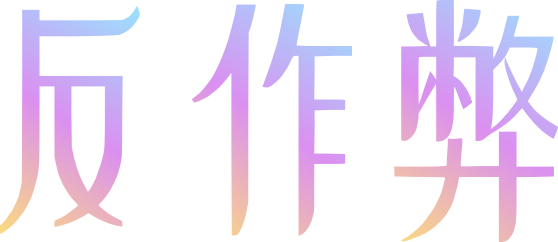
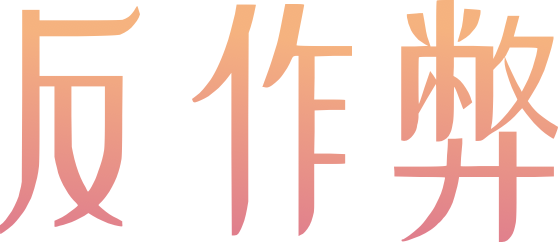
feat: init

Changed region(s): [[0.7007, 0.0, 1.0, 1.0], [0.0, 0.0289, 0.2742, 0.9545], [0.3351, 0.0, 0.6398, 0.9835]]

diff --git a/src/components/Layout/Nav.tsx b/src/components/Layout/Nav.tsx
@@ -9,7 +9,7 @@ import { cn } from "@/utils";
 const ConnectUs = () => {
   return (
     <div className="absolute left-0 hidden group-hover:block">
-      <div className="h-4"></div>
+      <div className="h-3"></div>
       <div className="w-[20.5rem] h-[20.5rem] bg-white rounded-[0.625rem] flex flex-col space-y-[0.75rem] items-center">
         <h2 className="text-black text-lg leading-6 mt-[1.4375rem]">微信扫一扫</h2>
         <div className="w-[15.4375rem] h-[15.4375rem] border border-dashed border-black/40">
@@ -42,17 +42,17 @@ const Nav = () => {
   ];
 
   return (
-    <div className="fixed z-[2] top-0 min-w-[67.5rem] w-screen h-[3.5625rem] backdrop-blur pl-[18.54%] flex items-center justify-start">
-      <Link href='/' className=" w-[7.375rem] h-[2.875rem]">
-        <Image src={Logo} alt="" className="block w-full h-full" />
+    <div className="fixed z-[2] top-0 min-w-[67.5rem] w-screen h-[3.5625rem] bg-white/80 backdrop-blur pl-[18.54%] flex items-center justify-start">
+      <Link href='/' className=" w-[11rem]">
+        <Image src={Logo} alt="" className="block w-full" />
       </Link>
-      <ul className="flex justify-start space-x-[2.9375rem] ml-[4.3125rem] items-center *:*:text-sm *:*:text-white *:*:leading-5 *:*:relative *:*:after:content-[''] *:*:after:absolute *:*:after:-bottom-5 *:*:after:left-0 *:*:after:right-0 *:*:after:h-1 *:*:after:bg-[#7A53DA] *:*:after:opacity-0 *:*:after:transition-opacity">
+      <ul className="flex justify-start space-x-[2.9375rem] ml-[4.3125rem] items-center *:*:text-sm *:*:text-[#221F1F] *:*:leading-5 *:*:relative *:*:after:content-[''] *:*:after:absolute *:*:after:-bottom-5 *:*:after:left-0 *:*:after:right-0 *:*:after:h-1 *:*:after:bg-[#E64921] *:*:after:opacity-0 *:*:after:transition-all">
         {routerList.map(_ => (
           <li key={_.name} className={cn({
-            '*:after:opacity-100': pathname === _.href
+            '*:after:opacity-100 *:text-[#E64921]': pathname === _.href
           })}>
             {
-              _.href ? <Link href={_.href} className="hover:after:opacity-100 duration-500">{_.name}</Link> : <div className="cursor-pointer group">{_.name}<ConnectUs /></div>
+              _.href ? <Link href={_.href} className="hover:after:opacity-100 hover:text-[#E64921] duration-500">{_.name}</Link> : <div className="cursor-pointer group hover:text-[#E64921]">{_.name}<ConnectUs /></div>
             }
           </li>
         ))}

diff --git a/src/app/page.tsx b/src/app/page.tsx
@@ -3,12 +3,14 @@ const Home = () => {
     <div
       style={{ backgroundSize: "100% 100%" }}
       className="pt-[3.5625rem] bg-no-repeat bg-[url('/assets/aboutUsBg.png')] flex-1 relative">
-      <div className="absolute left-0 bottom-0 bg-[#7A53DA] opacity-70 w-[48.95%] rounded-tr-[12.25rem] px-[4.6875rem] pb-[0.875rem] pt-[1.8125rem]">
-        <h1 className="text-white w-fit mb-[2.25rem] font-semibold text-xl leading-7 relative after:absolute after:content-[''] after:h-1 after:left-0 after:right-0 after:-bottom-4 after:bg-white">关于我们</h1>
+      <div className="absolute left-0 bottom-0 bg-about-us-tip w-[48.95%] rounded-tr-[12.25rem] px-[4.6875rem] pb-[0.875rem] pt-[1.8125rem]">
+        <h1 className="text-white w-fit mb-[2.25rem] font-semibold text-xl leading-7 relative after:absolute after:content-[''] after:h-1 after:left-0 after:right-0 after:-bottom-4 after:bg-white">
+          关于我们
+        </h1>
         <ul className="flex flex-col space-y-8 mb-8 *:*:text-lg *:*:leading-[1.5625rem] *:*:text-white">
           <li>
             <p>
-              北京林开志奇广告有限公司成立于2020年，是一家链接媒体和广告主的全域营销技术服务商，在程序化投放、媒体代理、媒体商业化等业务领域深耕。
+              北京笑然广告有限公司成立于2020年，是一家链接媒体和广告主的全域营销技术服务商，在程序化投放、媒体代理、媒体商业化等业务领域深耕。
             </p>
           </li>
           <li>

diff --git a/src/app/media/Situation.tsx b/src/app/media/Situation.tsx
@@ -32,11 +32,11 @@ const Situation = () => {
   ];
 
   return (
-    <div className="h-[50vw] w-full bg-[#B5AAD5]">
+    <div className="h-[50vw] w-full bg-[#F0F2F5]">
       <div className="flex justify-center items-center mt-[3.75rem] mb-[5rem]">
         <span className="text-[#9164FF] text-[2.1875rem]">资源形式</span>
       </div>
-      <ul className="relative flex justify-center space-x-[3.125rem] *:relative *:z-[2] *:rounded-3xl *:overflow-hidden *:h-[29.64vw] *:w-[15.6vw] *:bg-white *:pb-4 *:pt-6 *:px-7 *:flex *:flex-col *:justify-center w-full after:absolute after:content-[''] after:left-0 after:right-0 after:h-1/2 after:bottom-0 after:bg-[#7A53DA]">
+      <ul className="relative flex justify-center space-x-[3.125rem] *:relative *:z-[2] *:rounded-3xl *:overflow-hidden *:h-[29.64vw] *:w-[15.6vw] *:bg-white *:pb-4 *:pt-6 *:px-7 *:flex *:flex-col *:justify-center w-full after:absolute after:content-[''] after:left-0 after:right-0 after:h-1/2 after:bottom-0 after:bg-[#E64921]">
         {situationList.map((_, idx) => (
           <li key={idx}>
             <div className="mb-[1.1875rem] flex-1 w-full flex items-center justify-center">

diff --git a/src/components/AdvantageCard.tsx b/src/components/AdvantageCard.tsx
@@ -10,10 +10,10 @@ const AdvantageCard = ({
     <div className="w-[22.5rem] h-[42.625rem] bg-advantage-card pt-[4.125rem] px-[1.375rem] rounded-3xl overflow-hidden">
       <div className="w-fit my-0 mx-auto">
         <Image alt='' src={titleIcon} className="block w-[11.1875rem] h-[7.5625rem]" />
-        <div className="bg-[#7A53DA] w-[8rem] h-1 mt-[2.1875rem] mb-[8.1875rem] my-0 mx-auto"></div>
+        <div className="bg-[#E64921] w-[8rem] h-1 mt-[2.1875rem] mb-[8.1875rem] my-0 mx-auto"></div>
       </div>
-      <span className="inline-block text-2xl text-white w-full text-left mb-8">{title}</span>
-      <p className="opacity-80 text-white text-xl leading-7 w-full text-left">{desc}</p>
+      <span className="inline-block text-2xl text-[#221F1F] w-full text-left mb-8">{title}</span>
+      <p className="text-[#221F1F]/80 text-xl leading-7 w-full text-left">{desc}</p>
     </div>
   )
 }

diff --git a/src/app/media/Traffic.tsx b/src/app/media/Traffic.tsx
@@ -3,9 +3,9 @@ import TrafficBg from '@/assets/trafficBg.png'
 
 const Traffic = () => {
   return (
-    <div className="h-[50vw] w-full flex flex-col pb-[3rem]">
+    <div className="h-[50vw] w-full flex flex-col pb-[3rem] bg-[#E64921]/5">
       <div className="flex justify-center items-center mt-[6.625rem] mb-[2.875rem]">
-        <span className="text-[#9164FF] text-[2.1875rem]">全网流量</span><span className="text-white text-[1.75rem]">-海量直连媒体拥有优先挑量权，流量质量、规模有保障</span>
+        <span className="text-[#E64921] text-[2.1875rem]">全网流量</span><span className="text-[#221F1F] text-[1.75rem]">-海量直连媒体拥有优先挑量权，流量质量、规模有保障</span>
       </div>
       <div className="w-[82.3%] flex-1 my-0 mx-auto overflow-hidden">
         <Image src={TrafficBg} alt="" className="block h-full"  />

diff --git a/src/app/advantage/page.tsx b/src/app/advantage/page.tsx
@@ -32,7 +32,7 @@ const Advantage = () => {
 
   return (
     <div className="flex-1">
-      <h1 className='text-[#9164FF] text-[2.5rem] leading-[3.5rem] mt-[6.5625rem] mb-[3.3125rem] text-center'>我们的优势</h1>
+      <h1 className='text-[#E64921] text-[2.5rem] leading-[3.5rem] mt-[6.5625rem] mb-[3.3125rem] text-center'>我们的优势</h1>
       <ul className='w-full flex justify-center space-x-[3.75rem]'>
         {
           advantageLists.map((_, idx) => (<li key={idx}>

diff --git a/tailwind.config.ts b/tailwind.config.ts
@@ -9,8 +9,8 @@ const config: Config = {
   theme: {
     extend: {
       backgroundImage: {
-        // 'about-us': "url('./src/assets/aboutUsBg.png')",
-        'advantage-card': 'linear-gradient( 3deg, rgba(178,139,239,0) 0%, rgba(122,83,218,0.27) 100%)'
+        'advantage-card': 'linear-gradient( 3deg, rgba(230,73,33,0) 0%, rgba(230,73,33,0.27) 100%);',
+        'about-us-tip': "linear-gradient( 175deg, #FFA771 0%, #E64921 100%)"
       },
     },
   },

diff --git a/src/components/Layout/Footer.tsx b/src/components/Layout/Footer.tsx
@@ -1,7 +1,7 @@
 const Footer = () => {
   return (
-    <div className="w-full py-[1.25rem] text-center">
-      <h1 className="text-white text-sm leading-[1.25rem]">京ICP备2024052200号</h1>
+    <div className="w-full py-[1.25rem] text-center bg-[#40261B]">
+      <h1 className="text-white text-sm leading-[1.25rem]">京ICP备2020048288号</h1>
     </div>
   )
 }

diff --git a/src/app/layout.tsx b/src/app/layout.tsx
@@ -9,7 +9,7 @@ export default function RootLayout({
 }>) {
   return (
     <html lang="en">
-      <body className='bg-[#191130]'>
+      <body className='bg-white'>
         <Layout>
           {children}
         </Layout>
